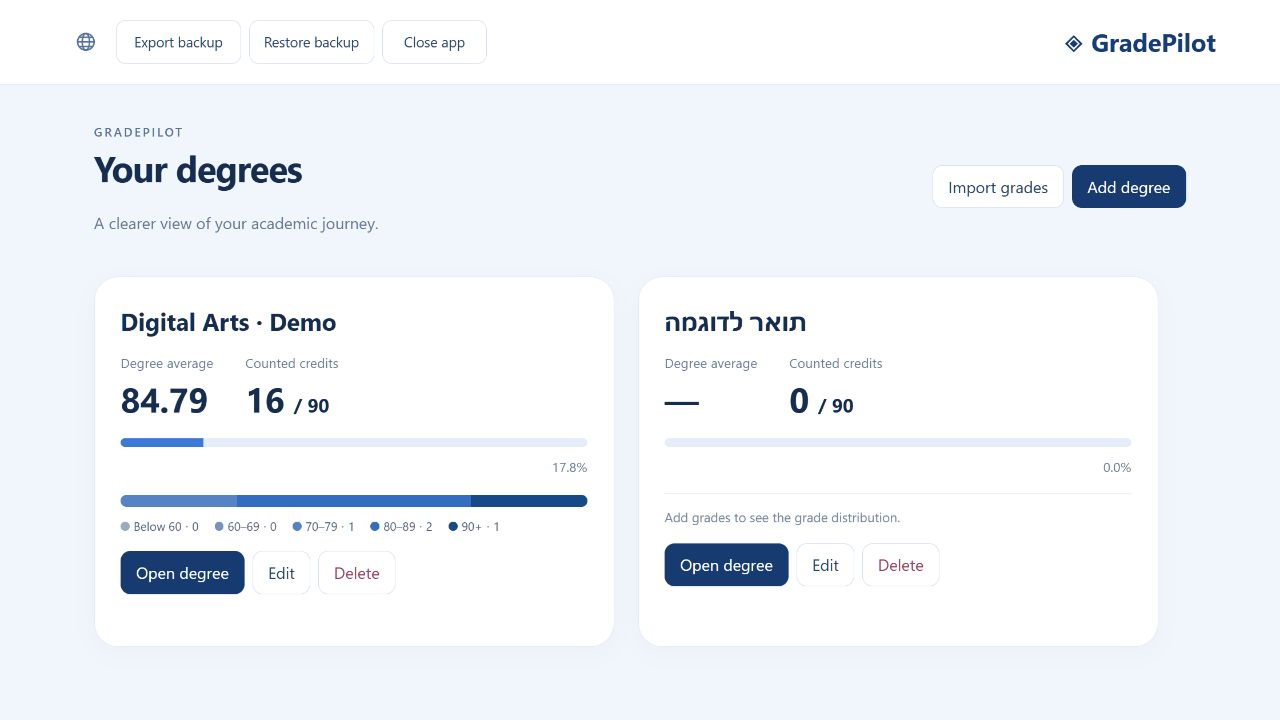
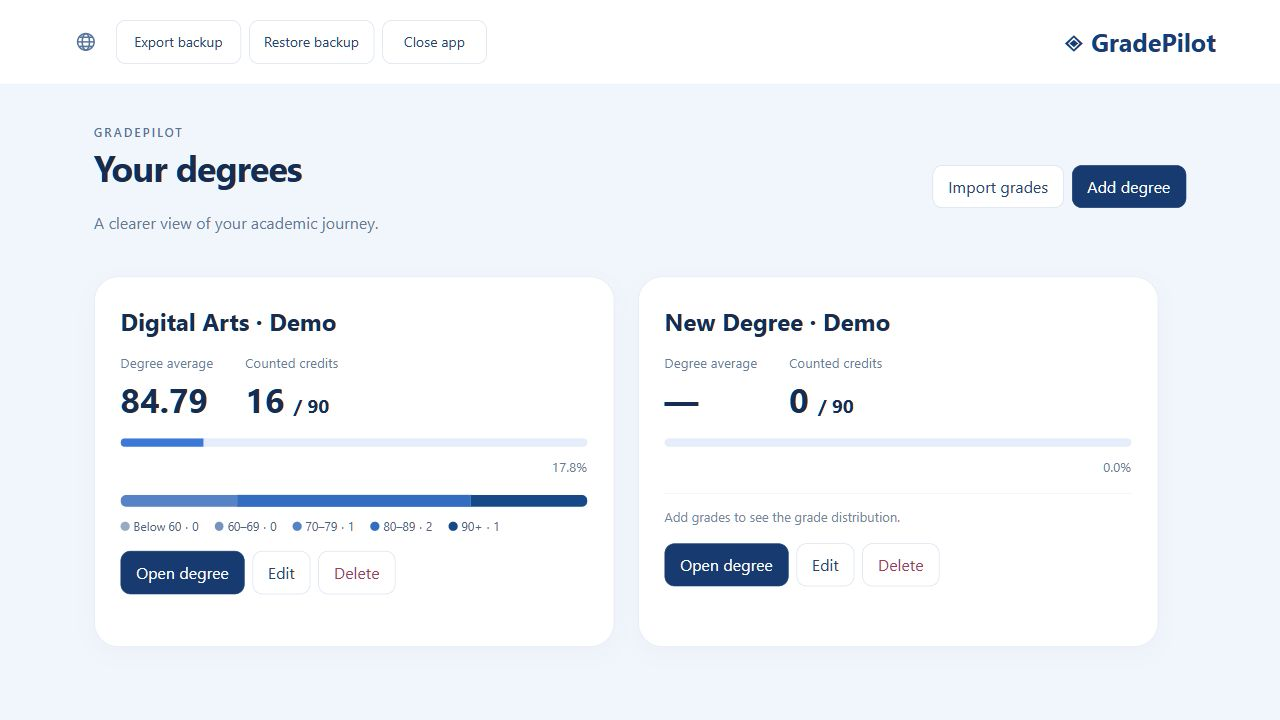
Replace gallery with complete English-only screenshots

diff --git a/README.md b/README.md
@@ -66,28 +66,26 @@ Parser contract: `POST /api/import/parse-text` accepts `{ "text": "..." }` and a
 
 ## Screenshots
 
-Fresh captures from the current Windows release executable, including the compact empty-degree state, grouped imports, and before/after update confirmation. All course names and grades are fictional demo data.
+Fresh English-only captures from the current Windows release. All names, transcript text, and grades are fictional demo data. Long screens are captured in full, and dialogs include every field and action.
 
 ![Dashboard and empty degree](screenshots/01-home.png)
 
 <details>
 <summary>Degree, course menu, component editor, and simulation</summary>
 
-![Degree page](screenshots/02-degree.png)
+![Complete degree page](screenshots/02-degree.png)
 ![Course menu](screenshots/03-course-menu.png)
-![Component grades](screenshots/04-components.png)
-![Simulation](screenshots/05-simulation.png)
+![Component editor](screenshots/04-components.png)
+![Complete simulation page](screenshots/05-simulation.png)
 
 </details>
 
 <details>
-<summary>Import: paste, supported formats, grouped review, and confirmation</summary>
+<summary>Import: paste, grouped review, unsupported rows, and confirmation</summary>
 
 ![Empty paste field](screenshots/06-import-paste.png)
-![Supported formats](screenshots/07-format-guide.png)
-![Year mapping and grouped review](screenshots/08-import-review.png)
-![Unsupported rows in one expandable section](screenshots/09-unsupported-rows.png)
-![Confirm new courses and changes to existing courses](screenshots/10-import-confirmation.png)
-![Hebrew review, binary Passed, and summer displayed as קיץ](screenshots/11-hebrew-review.png)
+![Complete year mapping and grouped review](screenshots/07-import-review.png)
+![Unsupported rows expanded within the complete import screen](screenshots/08-unsupported-rows.png)
+![Confirmation showing changes to existing courses](screenshots/09-import-confirmation.png)
 
 </details>

diff --git a/VERIFICATION.md b/VERIFICATION.md
@@ -27,3 +27,5 @@ Repeat-import verification: identical rows are unchanged; updated grades and cre
 Empty summary verified in Hebrew using a fictional degree: compact dashboard card, one progress bar, explanatory distribution empty state, and isolated numeric labels.
 
 Release refresh verification: the complete executable and assets were republished together. HTML, JavaScript, and CSS return Cache-Control: no-store; updated HTML uses fresh asset URLs. Live HTTP integration coverage checks these headers. The real saved database hash was unchanged during replacement. All old captures were removed and replaced with eleven fresh screenshots from the exact release executable.
+
+Screenshot gallery replaced again after framing review: nine English-only captures, including English degree names and transcript text. Every image was visually inspected. Long degree, simulation, and import screens use full-page captures, with complete cards and actions; dialogs show all fields and buttons. No personal grades or mixed-language examples appear in the gallery.
